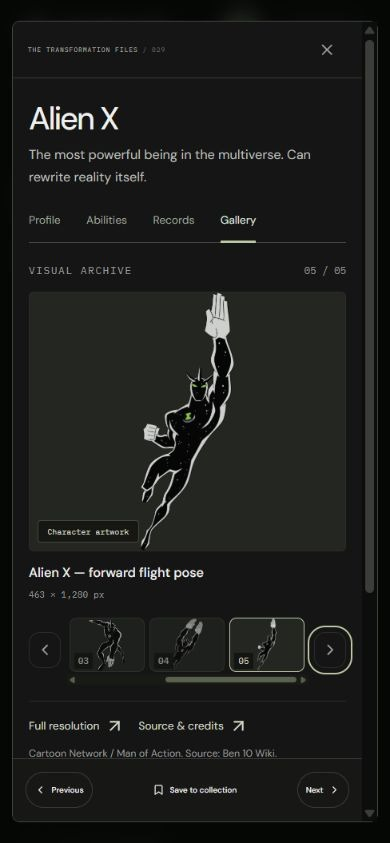
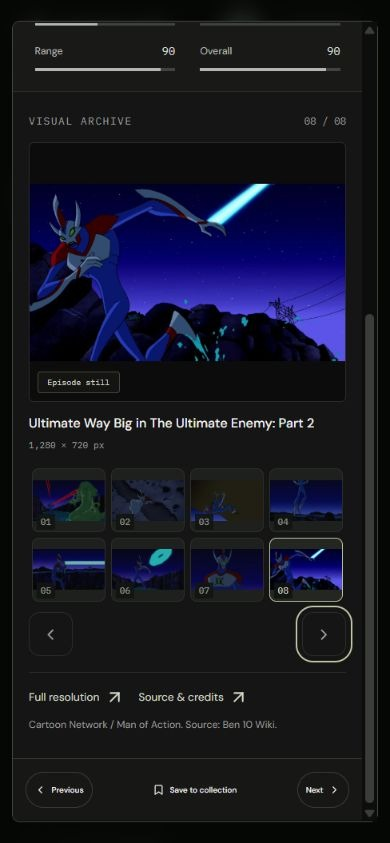
Display gallery thumbnails in two rows of four

diff --git a/src/components/AlienGallery.jsx b/src/components/AlienGallery.jsx
@@ -1,4 +1,4 @@
-import { useEffect, useRef, useState } from 'react';
+import { useState } from 'react';
 import { FiArrowUpRight, FiChevronLeft, FiChevronRight, FiImage } from 'react-icons/fi';
 import galleries from '../data/galleries.json';
 import { firstActionIndex, wrapImageIndex } from '../lib/gallery';
@@ -16,16 +16,6 @@ export default function AlienGallery({ alien }) {
   const gallery = galleries[alien.id];
   const images = gallery?.images || [];
   const [selected, setSelected] = useState(() => firstActionIndex(images));
-  const thumbnails = useRef(null);
-  useEffect(() => {
-    const strip = thumbnails.current;
-    const button = strip?.children[selected];
-    if (!button) return;
-    const left = button.offsetLeft;
-    const right = left + button.offsetWidth;
-    const target = left < strip.scrollLeft ? left : right > strip.scrollLeft + strip.clientWidth ? right - strip.clientWidth : null;
-    if (target !== null) strip.scrollTo({ left: target, behavior: window.matchMedia('(prefers-reduced-motion: reduce)').matches ? 'instant' : 'smooth' });
-  }, [selected]);
   if (!images.length) return <p>Images are being catalogued for this transformation.</p>;
   const image = images[selected];
   const select = index => setSelected(wrapImageIndex(index, images.length));
@@ -48,7 +38,7 @@ export default function AlienGallery({ alien }) {
     </figure>
     <div className="gallery-navigation">
       <button className="icon-button" onClick={() => select(selected - 1)} aria-label="Previous image"><FiChevronLeft /></button>
-      <div ref={thumbnails} className="gallery-thumbnails" role="group" aria-label="Choose an image">{images.map((item, index) => <button key={item.id} onClick={() => select(index)} aria-pressed={selected === index} aria-label={`Image ${index + 1}: ${item.caption}`}><img src={item.src} alt="" loading="lazy" decoding="async" /><span>{String(index + 1).padStart(2, '0')}</span></button>)}</div>
+      <div className="gallery-thumbnails" role="group" aria-label="Choose an image">{images.map((item, index) => <button key={item.id} onClick={() => select(index)} aria-pressed={selected === index} aria-label={`Image ${index + 1}: ${item.caption}`}><img src={item.src} alt="" loading="lazy" decoding="async" /><span>{String(index + 1).padStart(2, '0')}</span></button>)}</div>
       <button className="icon-button" onClick={() => select(selected + 1)} aria-label="Next image"><FiChevronRight /></button>
     </div>
     <div className="gallery-source"><div className="gallery-links"><a href={image.src} target="_blank" rel="noreferrer">Full resolution <FiArrowUpRight /></a><a href={image.sourceFile} target="_blank" rel="noreferrer">Source & credits <FiArrowUpRight /></a></div><p>{image.credit}</p>{image.enhanced && <p>AI-assisted upscale from {image.sourceWidth} × {image.sourceHeight} px. Details may differ. <a href={image.originalUrl} target="_blank" rel="noreferrer">Compare the original.</a></p>}</div>

diff --git a/src/styles/gallery.css b/src/styles/gallery.css
@@ -20,8 +20,8 @@
 .gallery-figure figcaption > span { color: var(--muted); font: 10px var(--mono); text-align: right; flex-shrink: 0; }
 .gallery-navigation { display: flex; gap: 12px; align-items: center; margin: 3px 0 16px; }
 .gallery-navigation > .icon-button { flex-shrink: 0; border: 1px solid var(--line); }
-.gallery-thumbnails { position: relative; display: flex; gap: 8px; width: 100%; min-width: 0; overflow-x: auto; scroll-snap-type: x proximity; scrollbar-width: thin; scrollbar-color: #59604f #171a15; padding: 3px; }
-.gallery-thumbnails button { flex: 0 0 calc((100% - 24px) / 4); min-width: 54px; height: 68px; scroll-snap-align: center; border: 1px solid #3b3d38; border-radius: 7px; background: #242622; overflow: hidden; position: relative; opacity: .65; transition: opacity .15s, border-color .15s; }
+.gallery-thumbnails { display: grid; grid-template-columns: repeat(4, minmax(0, 1fr)); gap: 8px; width: 100%; min-width: 0; padding: 3px; }
+.gallery-thumbnails button { min-width: 0; height: 80px; border: 1px solid #3b3d38; border-radius: 7px; background: #242622; overflow: hidden; position: relative; opacity: .65; transition: opacity .15s, border-color .15s; }
 .gallery-thumbnails button:hover, .gallery-thumbnails button[aria-pressed="true"] { opacity: 1; border-color: var(--accent); }
 .gallery-thumbnails img { width: 100%; height: 100%; object-fit: contain; }
 .gallery-thumbnails button > span { position: absolute; bottom: 2px; left: 4px; background: #121411e8; padding: 0 4px; color: #d2d7c9; font: 9px/16px var(--mono); }
@@ -40,10 +40,11 @@
   .gallery-stage { height: 260px; }
   .gallery-figure figcaption { display: grid; gap: 5px; }
   .gallery-figure figcaption > span { text-align: left; font-size: 9px; }
-  .gallery-navigation { gap: 6px; }
-  .gallery-navigation > .icon-button { width: 32px; }
-  .gallery-thumbnails { gap: 5px; }
-  .gallery-thumbnails button { height: 54px; flex-basis: calc((100% - 10px) / 3); }
+  .gallery-navigation { display: grid; grid-template-columns: 1fr 1fr; gap: 8px; }
+  .gallery-navigation > .icon-button { width: 44px; height: 44px; }
+  .gallery-navigation > .icon-button:last-child { justify-self: end; }
+  .gallery-thumbnails { grid-column: 1 / -1; grid-row: 1; gap: 5px; }
+  .gallery-thumbnails button { height: 64px; }
   .gallery-stage-label { left: 8px; bottom: 8px; font-size: 8px; }
   .gallery-links { gap: 14px; }
 }

diff --git a/docs/GALLERY_SOURCES.md b/docs/GALLERY_SOURCES.md
@@ -21,7 +21,7 @@ The isolated, AI-enhanced images (`70/3.webp` and `71/3.webp`) also serve as the
 
 Alien X retains its first two images and replaces the previous final two scenes with three full-body flight poses (five images total). Every other alien retains its previous images and appends four. Seven smaller original galleries now have seven images; the others have eight. The expansion adds 287 source files and replaces two old files, producing 566 images overall.
 
-New selections were visually reviewed in contact sheets. Frames dominated by empty scenery, effects, feet, distant groups, or unrelated characters were replaced. The viewer uses `object-fit: contain` so wide scenes and tall illustrations remain uncropped. A horizontally scrollable thumbnail strip follows the selected image and supports keyboard navigation.
+New selections were visually reviewed in contact sheets. Frames dominated by empty scenery, effects, feet, distant groups, or unrelated characters were replaced. The viewer uses `object-fit: contain` so wide scenes and tall illustrations remain uncropped. The image gallery appears directly below the profile statistics. Its four-column thumbnail grid shows eight images in two rows, including on mobile, and supports keyboard navigation.
 
 The following additions are **non-canon fan interpretations**, not official alternate series forms. Artist marks remain in the images:
 
@@ -73,4 +73,4 @@ node --test src/lib/gallery.test.js
 
 The download command retrieves public originals into ignored `tmp/gallery/originals/`. The encoder preserves the committed enhanced WebPs when the corresponding private working PNG is absent. It never silently labels an unenhanced original as enhanced. To replace an enhancement, supply a reviewed PNG at `tmp/gallery/enhanced/<alien-id>-<image-index>.png` before encoding, and update the provenance table if its dimensions change.
 
-The manifest is bundled with the lazy-loaded Gallery component. Only the selected alien's images are requested when its gallery opens; the 82.5 MiB collection is not downloaded on the home screen. All gallery images are served locally and require no runtime image API.
+The manifest is bundled with the lazy-loaded Gallery component. Only the selected alien's gallery images are requested when its profile opens; the 82.5 MiB collection is not downloaded on the home screen. All gallery images are served locally and require no runtime image API.

diff --git a/README.md b/README.md
@@ -85,11 +85,11 @@ Matches come from the archive's listed abilities. Weaknesses and elemental immun
 
 ## See every form in action
 
-Open an alien’s dossier and choose **Gallery**. Explore **566 locally hosted images across all 72 aliens**, with **seven or eight images per transformation, with a special five-image Alien X gallery**: alternate series designs, power demonstrations, episode stills, and game appearances where available. Galleries open on an action shot when one is available.
+Open an alien’s dossier and scroll below **Statistics** to see its gallery, or choose **Gallery** for quick access. Explore **566 locally hosted images across all 72 aliens**, with **seven or eight images per transformation, with a special five-image Alien X gallery**: alternate series designs, power demonstrations, episode stills, and game appearances where available. Galleries open on an action shot when one is available.
 
-Swipe or scroll the thumbnail strip, select a picture, or use the image arrows; **← / →**, **Home**, and **End** work while a gallery control is focused. Open **Full resolution** for the complete image, or **Source & credits** for its original file page. Images keep their aspect ratio and are loaded when you open a gallery.
+Select a picture from the four-column thumbnail grid or use the image arrows; **← / →**, **Home**, and **End** work while a gallery control is focused. Open **Full resolution** for the complete image, or **Source & credits** for its original file page. Images keep their aspect ratio and are loaded when you open a gallery.
 
-<a href="docs/assets/gallery-expanded.jpg"><img src="docs/assets/gallery-expanded.jpg" alt="Heatblast visual archive with uncropped character artwork, eight images in a scrollable thumbnail strip, captions, and source credits." width="100%" /></a>
+<a href="docs/assets/gallery-expanded.jpg"><img src="docs/assets/gallery-expanded.jpg" alt="Ultimate Way Big visual archive below the statistics, eight images in two rows of four thumbnails." width="100%" /></a>
 
 <details>
   <summary><strong>Alien X — the five-image replacement set</strong></summary>
